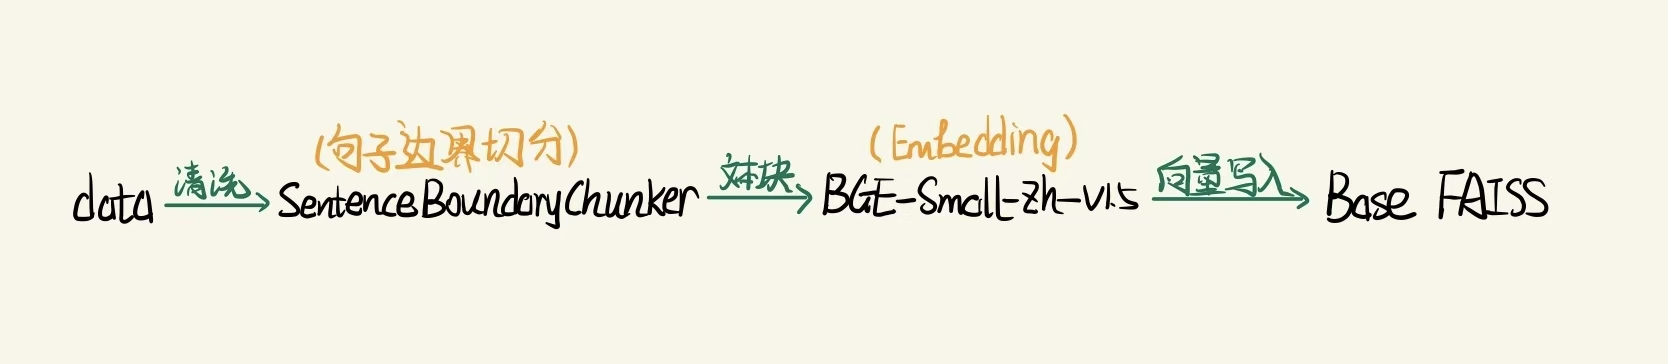
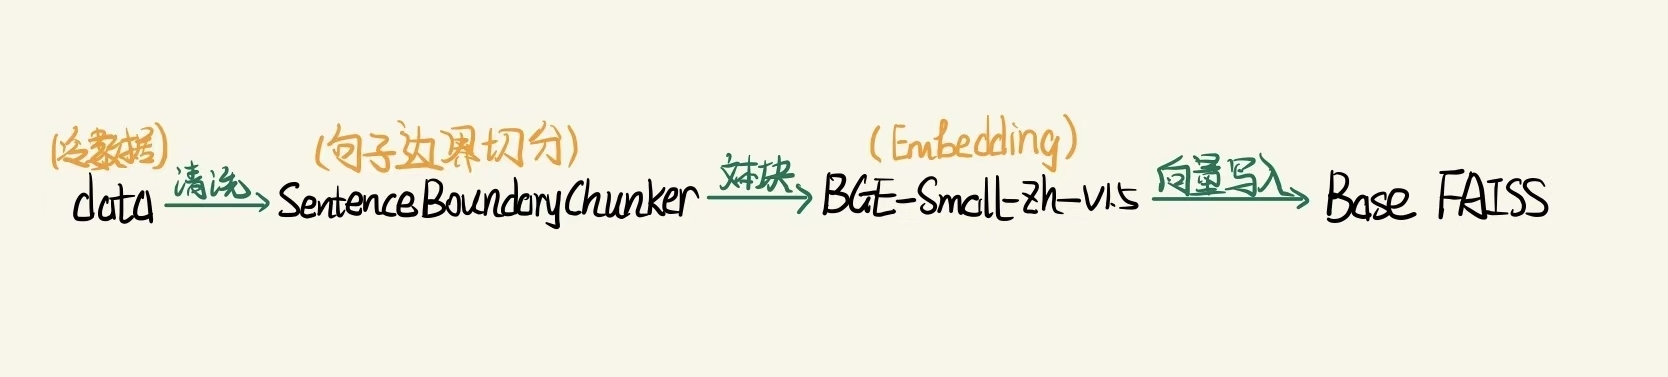
chore: revise Readme.md and update Architecture diagram

Changed region(s): [[0.0312, 0.3022, 0.9353, 0.6346]]

diff --git a/README.md b/README.md
@@ -2,11 +2,11 @@
 
 ## 项目简介
 
-本项目是一个基于本地化大模型 `Ollama + Llama3:8B`、`BGE-small-zh-v1.5`、`BGE-reranker-base` 与 `FAISS` 向量库构建的本地化 Memory RAG 系统。
+本项目是一个基于本地化大模型 `Ollama + Llama3:8B`、`BGE-small-zh-v1.5`、`BGE-reranker-base` 与 `FAISS` 向量库构建的本地化 Memory RAG / Agent Pipeline 原型系统。
 
-系统设计了独立的 `MemoryManager` 动态记忆管理器，将静态基础知识库 `Base Knowledge` 与用户长期记忆库 `User Memory` 进行物理隔离；同时在 `RAGPipeline` 前置轻量级 `QueryPolicy` 意图分流层，将用户输入划分为 `direct_chat`、`memory_write`、`memory_recall` 和 `normal_rag` 四类，并根据不同意图选择不同处理路径。
+系统面向多轮问答中的长期记忆管理问题，设计了“冷-温-热”数据分层结构：冷数据保存原始知识文档，温数据维护 `Base Knowledge` 与 `User Memory` 两个 FAISS 向量库，热数据保留当前会话的短期上下文窗口。通过这种方式，系统将静态知识、长期用户记忆和当前对话历史进行隔离管理，降低基础知识与用户记忆之间的交叉污染。
 
-系统不仅能够基于静态基础知识库进行问答，还能在多轮对话中选择性沉淀用户目标、偏好和计划，并支持程序重启后的长期记忆召回。
+在在线问答阶段，系统在 `RAGPipeline` 前置轻量级 `QueryPolicy` 意图分流层，将用户输入划分为 `direct_chat`、`memory_write`、`memory_recall` 和 `normal_rag` 四类，并根据不同意图选择不同处理路径。系统不仅能够基于静态基础知识库进行问答，还能在多轮对话中选择性沉淀用户目标、偏好和计划，并支持程序重启后的长期记忆召回。
 
 ---
 
@@ -16,31 +16,37 @@
 
 <div align="center">
   <img src="./assets/offline_cold_start.jpg" width="800">
-  <p><em>图 1: 离线冷启动：句子边界切分与基础知识库向量化</em></p>
+  <p><em>图 1：离线冷启动：原始文档切分、向量化与基础知识库构建</em></p>
 </div>
+
+离线阶段主要负责冷数据处理，即对原始知识文档进行句子边界切分、Embedding 向量化，并写入 `Base Knowledge FAISS`，为后续在线 RAG 检索提供稳定的静态知识来源。
 
 ### 2. 在线问答、意图路由与记忆沉淀闭环
 
 <div align="center">
   <img src="./assets/online_qa.jpg" width="800">
-  <p><em>图 2: 在线阶段：QueryPolicy 意图路由、双库检索与动态记忆更新</em></p>
+  <p><em>图 2：在线阶段：QueryPolicy 意图路由、双库召回、Prompt 组装与长期记忆写入闭环</em></p>
 </div>
+
+图 2 展示了在线问答阶段的完整闭环。用户输入首先经过 `QueryPolicy` 进行意图分流，划分为 `direct_chat`、`memory_write`、`memory_recall` 和 `normal_rag` 四类；其中 `normal_rag` 会进入 `Base FAISS` 与 `Memory FAISS` 双库召回，并通过 `bge-reranker-base` 进行二阶段精排。系统随后将基础知识、长期用户记忆、短期对话窗口与当前 Query 组装为最终 Prompt，交由 `Llama3:8B` 生成回答。回答生成后，`MemoryManager` 会根据记忆价值和新奇度判断，决定是否将当前 `[query, answer]` 写入 `User Memory`，从而形成长期记忆沉淀闭环。
 
 ---
 
 ## 核心架构亮点
 
+- **冷-温-热数据分层架构**：将原始文档、双 FAISS 向量库和短期对话窗口分别作为冷数据、温数据和热数据管理，实现静态知识、长期用户记忆与当前会话历史的隔离。
+
 - **轻量级 QueryPolicy 意图分流**：在 `RAGPipeline` 前置规则式意图判断，将用户输入划分为 `direct_chat`、`memory_write`、`memory_recall` 与 `normal_rag` 四类。身份闲聊类问题直接旁路回答，用户目标 / 计划 / 偏好类输入进入长期记忆写入流程，历史记忆回忆类问题走专门的 `User Memory` 检索路径，普通知识问答则进入完整 RAG 检索链路。
 
-- **双库向量检索架构**：物理隔离 `Base Knowledge`（静态基础知识库）与 `User Memory`（动态长期记忆库），降低日常对话、基础知识和用户长期记忆之间的交叉污染。
+- **双库向量检索架构**：物理隔离 `Base Knowledge`（静态基础知识库）与 `User Memory`（动态长期记忆库），避免将基础知识、日常闲聊和用户长期记忆混入同一个向量空间，降低记忆污染风险。
 
-- **动态记忆管理机制**：通过 `MemoryManager` 对用户目标、计划、偏好等信息进行价值过滤、新奇度判断和长期记忆写入，避免将普通知识问答或闲聊内容全部写入用户记忆库。
+- **动态记忆管理机制**：通过 `MemoryManager` 对用户目标、计划、偏好等信息进行价值过滤、新奇度判断和长期记忆写入控制，避免将普通知识问答或重复闲聊内容全部写入用户记忆库。
 
-- **Bi-Encoder + Cross-Encoder 两阶段检索**：使用 `bge-small-zh-v1.5` 进行向量召回，再使用 `bge-reranker-base` 进行精排，提升基础知识库与长期记忆库的检索质量。
+- **Bi-Encoder + Cross-Encoder 两阶段检索**：使用 `bge-small-zh-v1.5` 进行向量召回，再使用 `bge-reranker-base` 进行二阶段精排，提升基础知识库与长期记忆库的检索相关性。
 
 - **历史记忆回忆检索策略**：针对“我之前说过什么 / 你还记得我吗”等泛化记忆查询，单独采用 `memory_recall` 检索路径，优先检索 `User Memory`，跳过 `Base Knowledge` 干扰，并避免将回忆类 Query 再次写入长期记忆库，提升重启后长期记忆召回稳定性。
 
-- **U 型 Prompt 组装策略**：将基础知识库放在 Prompt 前部，近期连续对话放在 Prompt 后部，结合大模型首尾注意力偏好，缓解部分 Lost in the Middle 现象。
+- **U 型 Prompt 组装策略**：将基础知识库内容放在 Prompt 前部，将近期连续对话放在 Prompt 后部，结合大模型首尾注意力偏好，缓解部分 Lost in the Middle 现象。
 
 - **显存监控与可视化**：系统内置后台显存监控线程，在运行结束或异常退出时生成显存变化折线图，便于观察本地模型运行时的资源占用情况。
 
@@ -149,21 +155,17 @@ python main.py
 
 ## 后续架构演进路线 Future Work
 
-在当前 V1.0 系统基础上，后续可以从数据治理、检索策略、记忆生命周期和 Agent 化方向继续迭代。
+在当前 V1.0 系统基础上，后续可以从数据治理、检索策略、记忆生命周期、底层推理优化和 Agent 化方向继续迭代。
 
-- **轻量 QueryPolicy 意图分流与后续升级**：当前版本已实现基于规则的轻量级 QueryPolicy，将输入划分为身份闲聊、长期记忆写入、历史记忆回忆与普通 RAG 问答四类，并在 Pipeline 层选择不同处理策略。后续可进一步升级为语义级 Query Router。
+- **数据治理与检索工程精细化**：真实业务场景中的原始文档通常包含噪声、重复段落、格式错乱和无效文本。后续可重构底层 Data ETL 管道，加入更细粒度的文本清洗、重复内容过滤和 Metadata 标注，从源头提升 Chunking 与向量检索质量。
 
-- **语义级 Query Router**：后续可引入 embedding-based intent matching、轻量分类器或 LLM Router，提升对模糊表达、多意图 Query 和复杂任务指令的泛化能力。
+- **Metadata 混合检索与时间衰减机制**：后续可为文本块增加来源、时间、类型等 Metadata 字段，并结合向量检索和元数据过滤。对于动态记忆库，可以引入时间衰减权重，让近期记忆在用户相关问题中拥有更高召回优先级；而基础知识库保持稳定召回，不做时间衰减，从而区分“客观知识”和“用户记忆”的不同生命周期。
 
-- **工业级数据预处理与治理 Data ETL Pipeline**：重构数据接入层，引入更精细的文本清洗、去噪、去重和语义切分策略，提升 Chunking 质量，从源头减少 RAG 系统的“垃圾进，垃圾出”问题。
+- **记忆生命周期管理 Memory Lifecycle**：当前系统主要通过静态距离阈值进行新奇度判断。后续可引入检索频率、最近访问时间、记忆价值评分等因素，对长期未被激活的低价值记忆进行合并、降级或删除，降低长期记忆库膨胀带来的检索噪声。
 
-- **Metadata 混合检索与时序衰减机制 Hybrid Search & Time Decay**：在文本切片入库前提取实体、时间、来源等元信息，结合向量检索和元数据过滤；同时在 User Memory 中引入时间衰减权重，使近期记忆在用户相关问题中拥有更高优先级。
+- **结合长上下文研究做底层推理优化**：当前项目主要从外部记忆角度实现 Memory RAG，即通过 FAISS 向量库承接被挤出上下文窗口的长期信息。后续希望结合 KV Cache 和长文本记忆方向的研究，进一步探索推理阶段的选择性 KV 写入与驱逐策略，形成“内部 KV 工作记忆 + 外部 FAISS 长期记忆”的双层记忆结构。
 
-- **外部 KV Buffer 与摘要索引优化**：探索以结构化 Key-Value 形式管理动态记忆，并在原始记忆写入前抽取摘要或核心意图，实现“摘要建库，原文召回”，降低长期记忆库膨胀带来的检索噪声。
-
-- **基于动态阈值的记忆生命周期管理 Memory Lifecycle & Eviction**：升级当前静态距离阈值去重逻辑，引入检索频率、最近访问时间和记忆价值评分，对长期未被激活的低价值记忆进行合并、降级或删除。
-
-- **向 Agentic RAG 演进**：将基础知识库检索、用户记忆检索和外部工具调用封装为 Tools，由大模型根据任务目标自主规划调用顺序，实现从被动检索到主动探查的范式升级。
+- **向具备长期记忆管理能力的 Agentic RAG 演进**：当前版本已经实现轻量级 `SimpleQueryPolicy`，可以区分 `direct_chat`、`memory_write`、`memory_recall` 和 `normal_rag` 四类请求，解决所有 Query 都强行进入 RAG 检索链路的问题。但目前的 QueryPolicy 仍然基于关键词规则，泛化能力有限，且长期记忆的召回、写入与更新仍依赖固定流程控制。后续可以将规则路由升级为语义路由，例如使用轻量分类模型、Embedding 相似度路由或 LLM Router 判断用户意图。在此基础上，可以进一步将 `Base FAISS` 检索、`Memory FAISS` 检索、长期记忆写入、记忆更新与去重封装为工具能力，让大模型根据任务需求主动决定是否检索知识库、召回用户记忆或沉淀新记忆，从固定流程的 Pipeline RAG 演进到具备长期记忆管理能力的 Agentic RAG。
 
 ---
 
